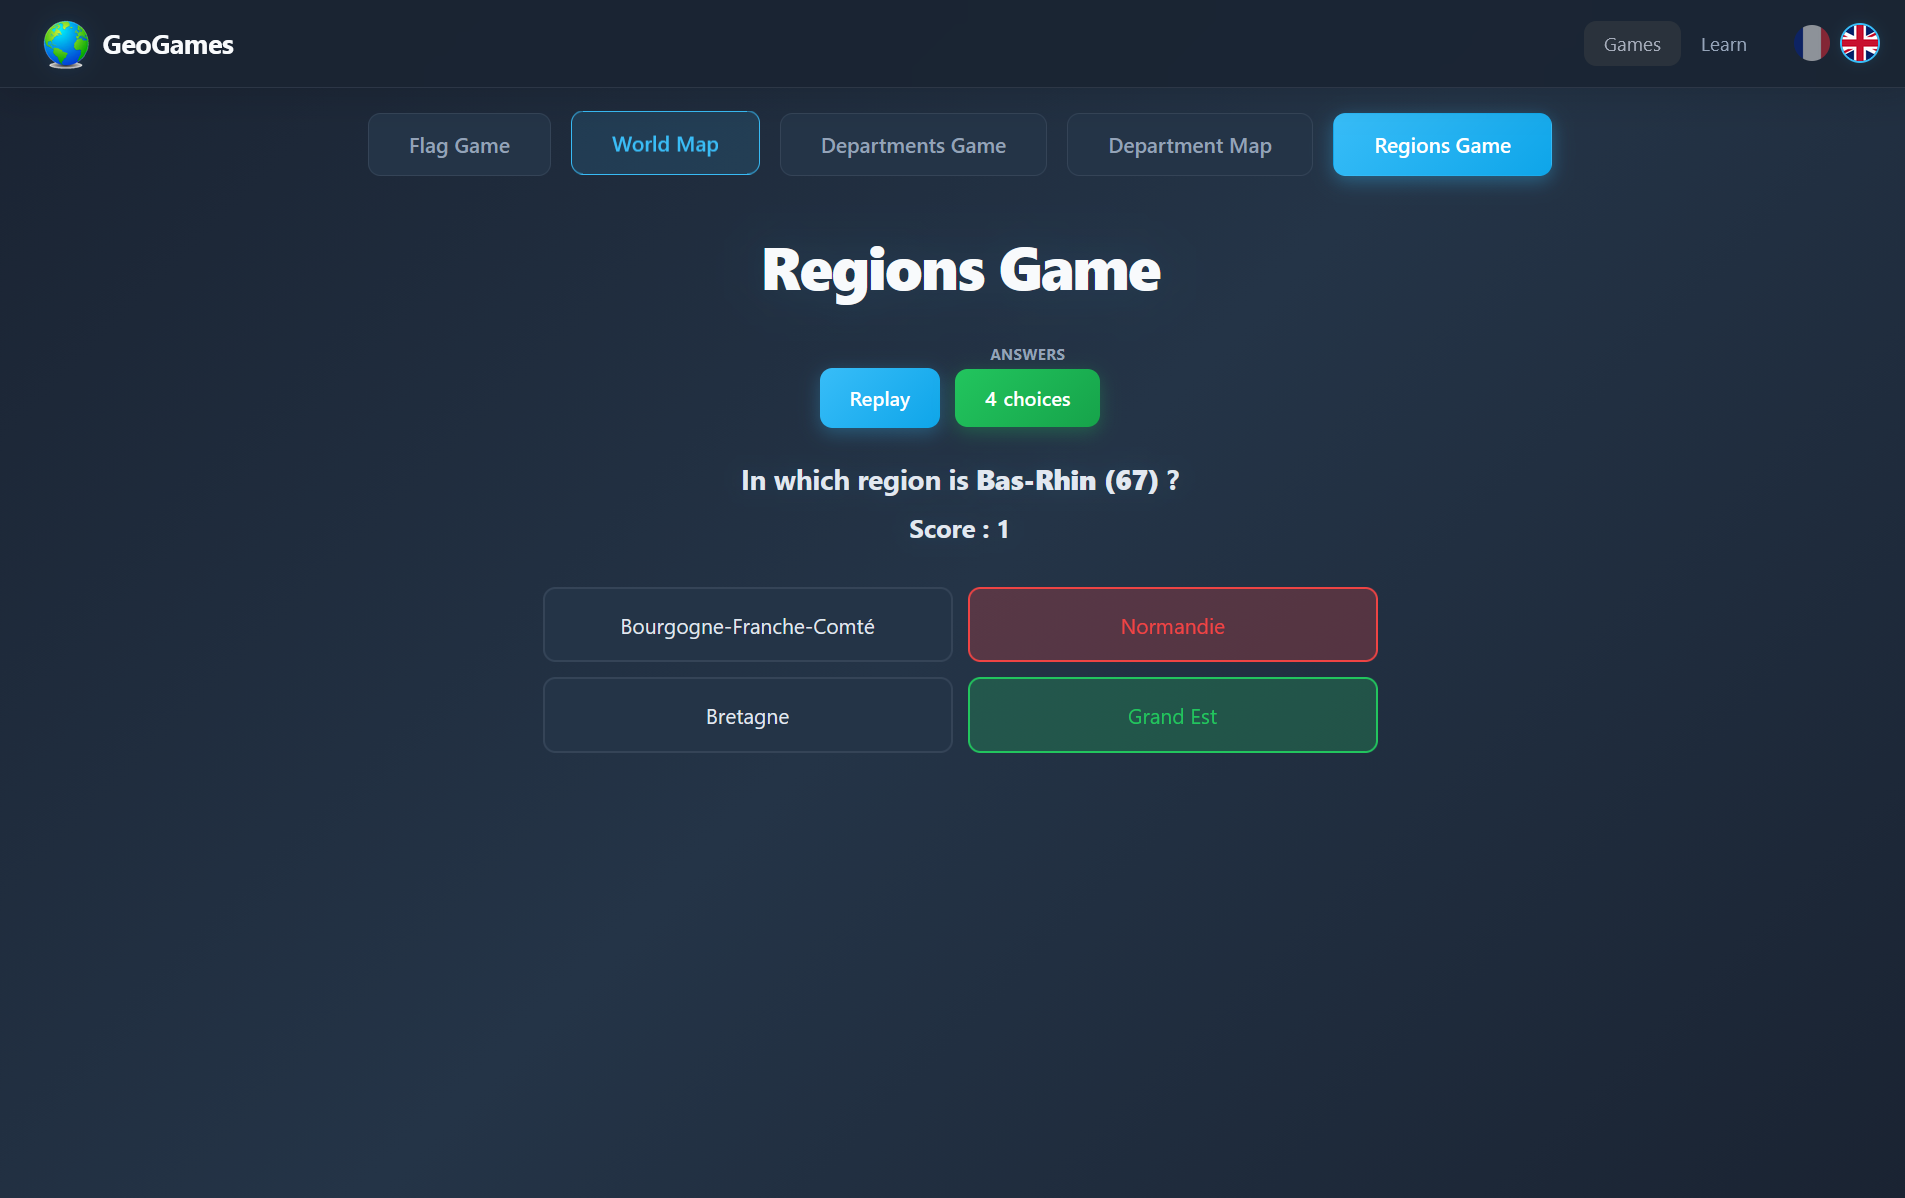
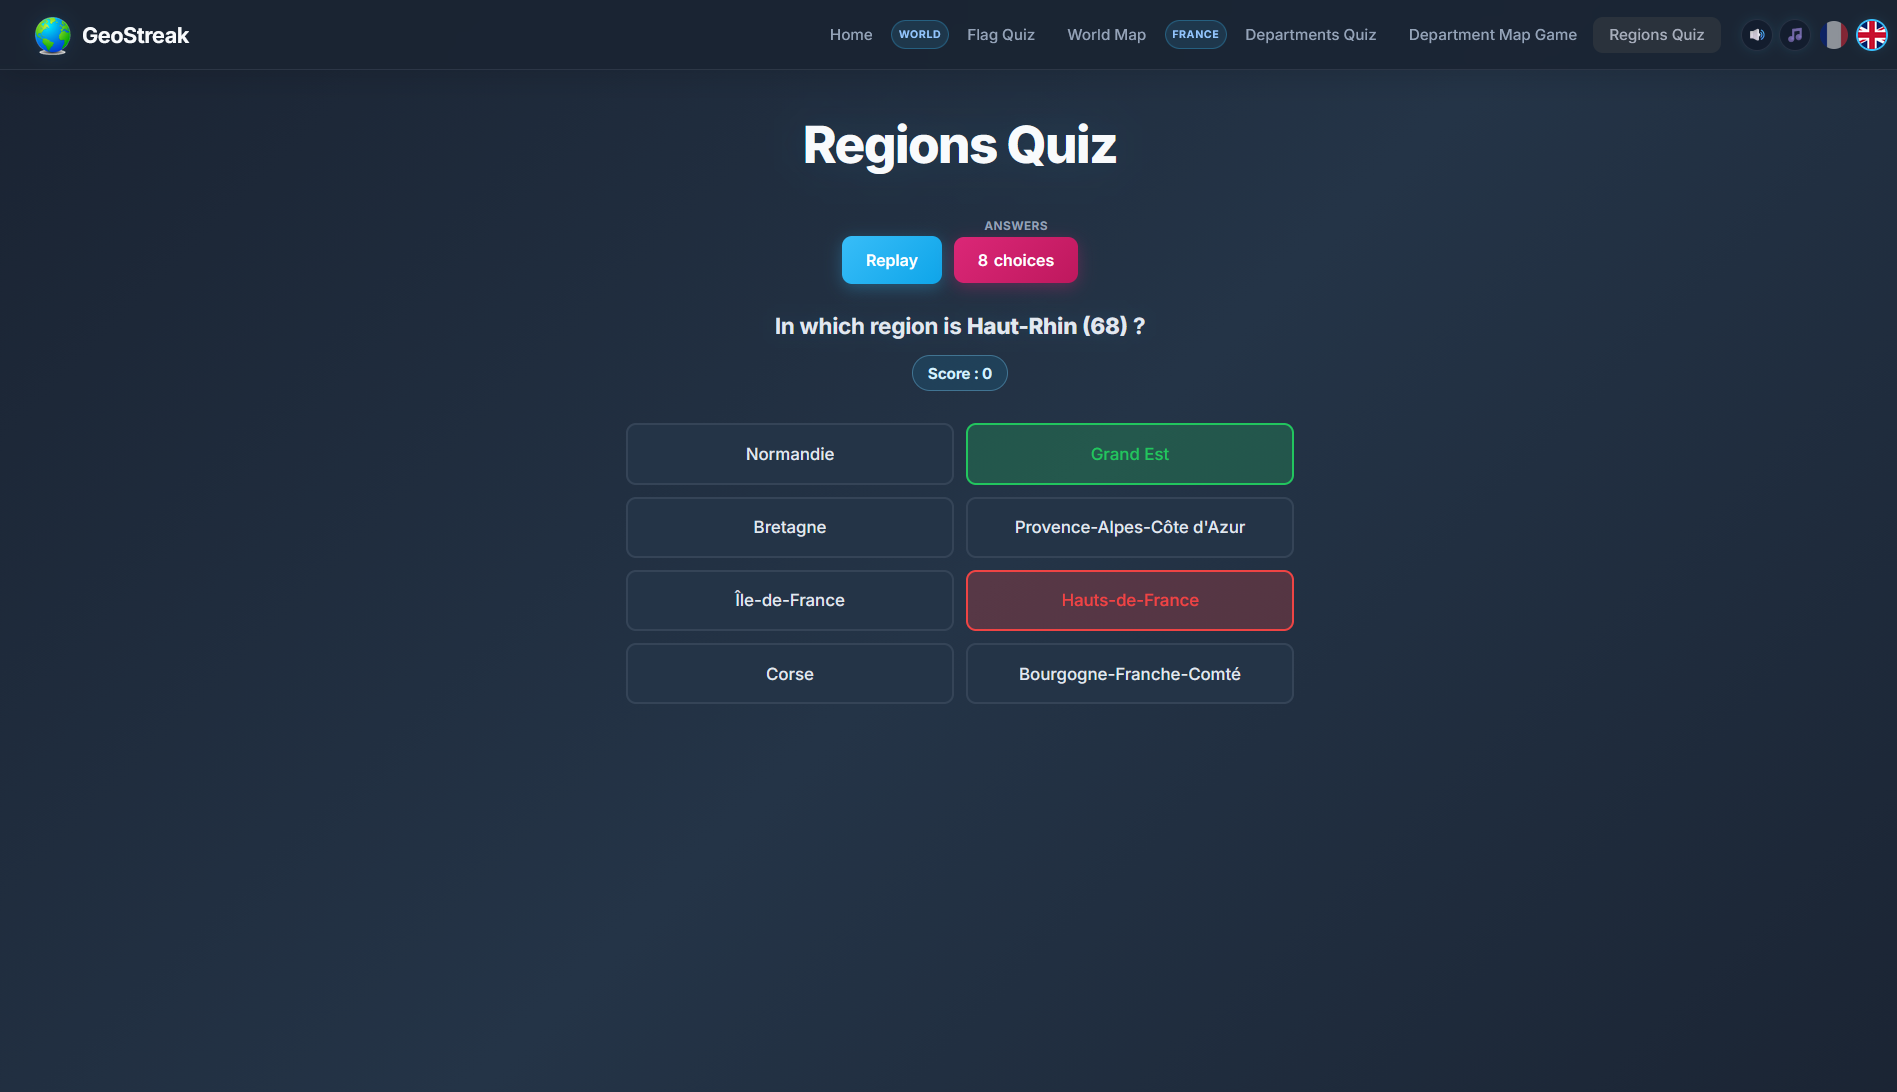
v2.2: add SEO, improved UI/UX, updated README

diff --git a/README.md b/README.md
@@ -18,25 +18,47 @@ GeoStreak is an interactive geography learning platform that makes exploring the
 - Easy/Hard difficulty on map games
 - Immediate score feedback
 
-### Feature Preview
+### Preview
+
+#### Start Screen
+
+Use the home page to get a quick look around before launching a game.
+
+![Home Start Screen](img/home.png)
+
+#### World Games
+
+World mode includes:
+- Flag quiz
+- World map quiz
 
 | Flag Game | World Map Game |
 | --- | --- |
 | ![Flag Game](img/flag_game.png) | ![World Map Game](img/world_map_game.png) |
 
-| Departments Game | Department Map Game |
-| --- | --- |
-| ![Departments Game](img/department_game.png) | ![Department Map Game](img/department_map_game.png) |
+#### France Games
 
-| Regions Game | Learn - World Map |
-| --- | --- |
-| ![Regions Game](img/regions_game.png) | ![Learn World Map](img/world_map_learn.png) |
+France mode includes:
+- French departments quiz
+- French departments map quiz
+- French regions quiz
+
+| Departments Game | Department Map Game | Regions Game |
+| --- | --- | --- |
+| ![Departments Game](img/department_game.png) | ![Department Map Game](img/department_map_game.png) | ![Regions Game](img/regions_game.png) |
+
+### Play Anywhere
+
+GeoStreak is responsive and works on desktop, tablet, and phone, so you can train geography anywhere.
+
+![GeoStreak on Phone](img/phone.png)
 
 ## Run Locally
 
 1. Clone or download this repository.
 2. Open `index.html` in a modern browser.
 3. Play directly, no build step required.
+4. Or play directly on the website: https://geo-streak.vercel.app
 
 ## License
 
